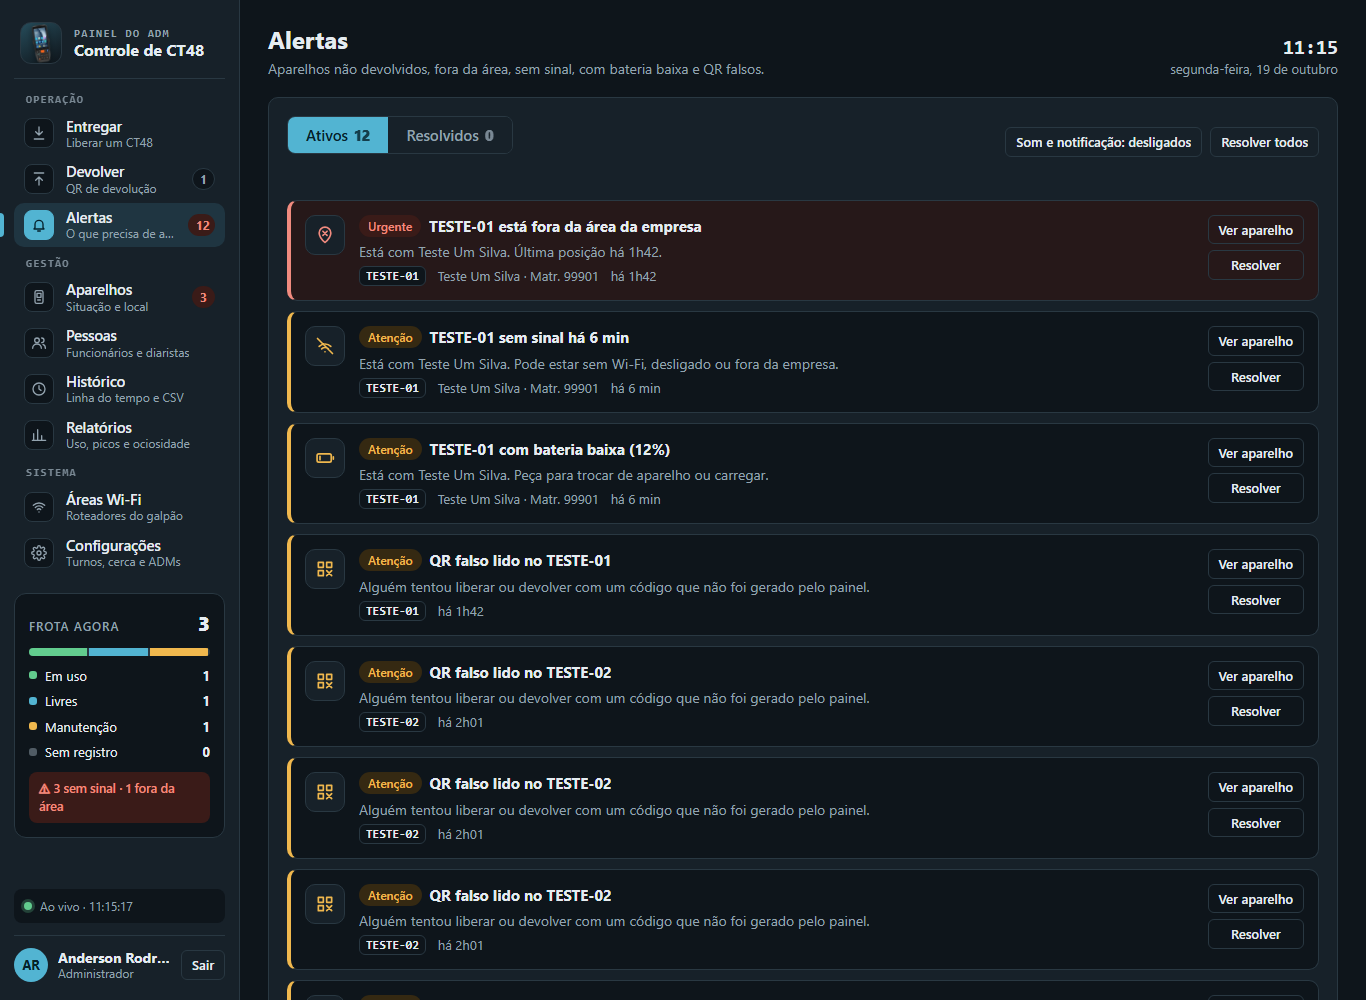
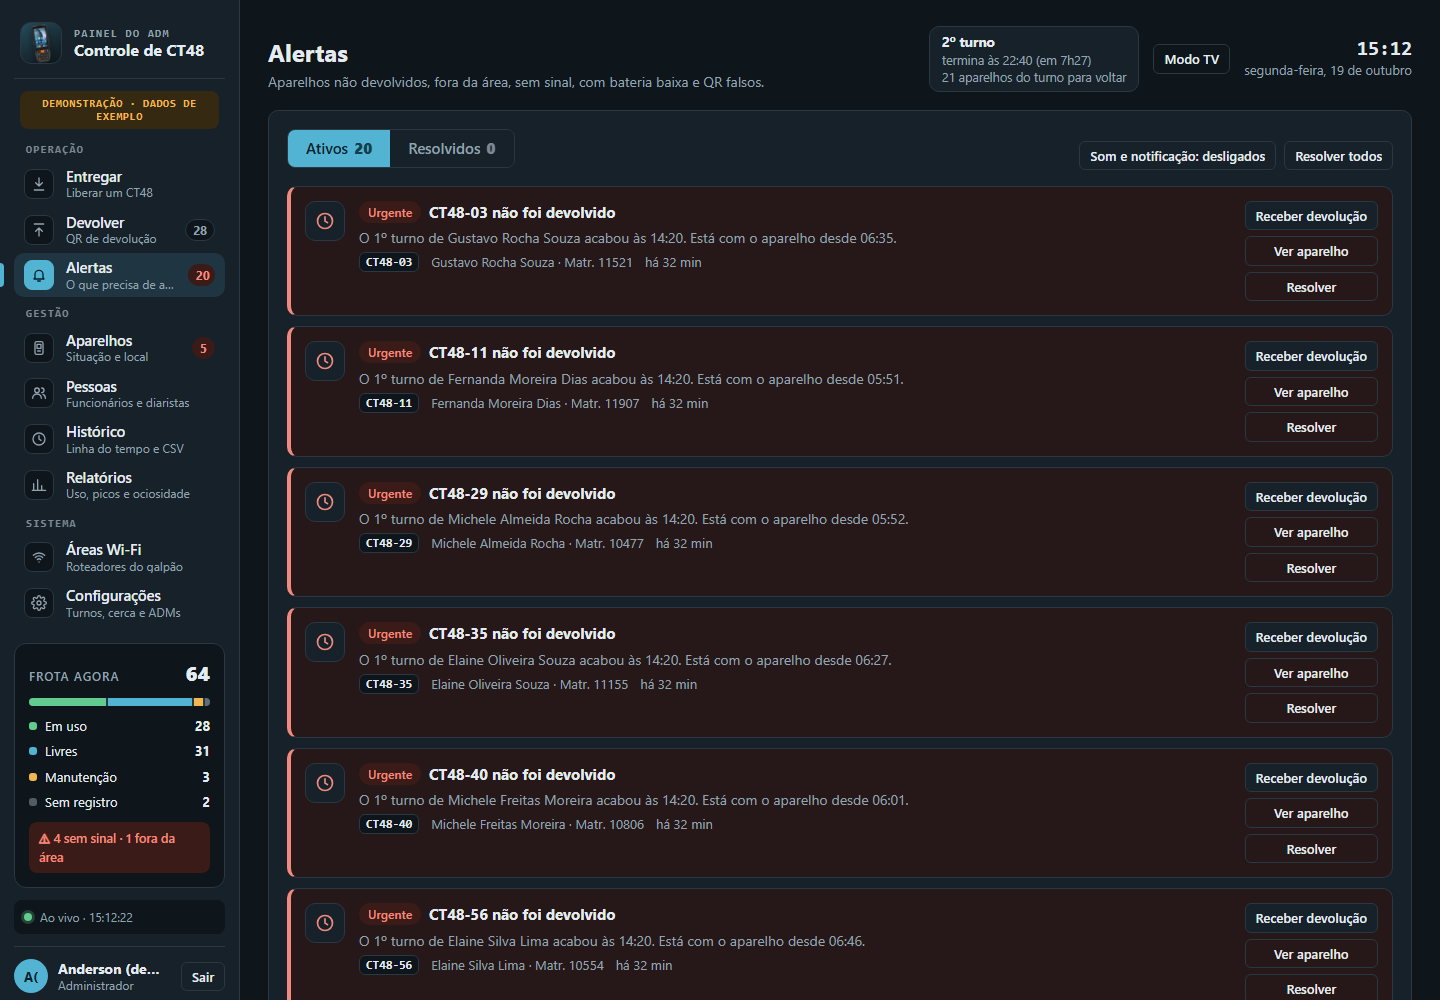
README e telas novas: Modo TV, fim de turno, relatórios e demonstração com 64 CT48
Imagens tiradas da demonstração (dados fictícios). README com a tabela de funcionalidades atualizada, galeria com 6 telas e o atalho npm run demo para ver funcionando.

diff --git a/README.md b/README.md
@@ -19,7 +19,8 @@ e o painel mostra em tempo real onde está cada aparelho, com quem e o que preci
 </div>
 
 <p align="center">
-  <img src="docs/imagens/painel-aparelhos.png" alt="Painel do ADM, seção Aparelhos: cartões com o mini CT48 mostrando o estado de cada aparelho" width="900">
+  <img src="docs/imagens/modo-tv.png" alt="Modo TV do painel: indicadores grandes, áreas do galpão com um ponto por CT48, alertas agrupados e movimento recente" width="960">
+  <br><sub><b>Modo TV</b> para um monitor na sala do ADM, aqui com a demonstração de 64 CT48 (dados fictícios)</sub>
 </p>
 
 ---
@@ -29,25 +30,31 @@ e o painel mostra em tempo real onde está cada aparelho, com quem e o que preci
 | | |
 |---|---|
 | 🔐 **Bloqueio por padrão** | O CT48 fica em modo quiosque. Só abre os apps da empresa depois de ler o QR de liberação. |
-| 📲 **Entrega com QR** | O ADM busca o funcionário (matrícula) ou o diarista (CPF) e gera um QR que vale 2 minutos e libera **um** aparelho. |
-| ↩ **Devolução com QR** | No fim do turno, um único QR de devolução bloqueia todos os aparelhos que o lerem. |
-| 🚨 **Alertas** | Aparelho não devolvido depois do turno, fora da área da empresa, sem sinal, com bateria baixa, perdido ou QR falso. Com som e notificação no navegador. |
-| 📍 **Localização** | Área pelo roteador Wi-Fi do galpão (mais preciso lá dentro) e GPS com cerca virtual. |
-| 👥 **Pessoas** | Quem está com aparelho, histórico de cada um, bloqueio de quem perdeu ou quebrou e importação da base do RH em CSV. |
-| 📊 **Relatórios** | Entregas, horas de uso, pico de aparelhos ao mesmo tempo, uso por hora, por aparelho, por setor e por pessoa. Exporta CSV e PDF. |
+| 📲 **Entrega com QR** | O ADM busca o funcionário (matrícula) ou o diarista (CPF) e gera um QR que vale 2 minutos e libera **um** aparelho. O painel **sugere qual CT48 entregar** (o livre com mais bateria). |
+| ↩ **Devolução com QR** | Um único QR de devolução bloqueia todos os aparelhos que o lerem. O **fim de turno guiado** mostra quem do turno ainda está com aparelho. |
+| 🚨 **Alertas** | Não devolvido depois do turno, fora da área, sem sinal, bateria baixa, perdido ou QR falso. Com som e notificação no navegador. |
+| 📺 **Modo TV** | Tela cheia para monitor: indicadores grandes, áreas com um ponto por CT48, alertas agrupados e movimento recente, ao vivo. |
+| 📍 **Localização** | Área pelo roteador Wi-Fi do galpão (mais preciso lá dentro) e GPS com cerca virtual. Quadro com quantos CT48 há em cada área. |
+| 🗂 **Feito para frota grande** | Aparelhos em lista ou cartões, ordenação, filtros e páginas (1, 2, 3…) em todas as listas longas. |
+| 👥 **Pessoas** | Quem está com aparelho, histórico, atrasos de cada um, bloqueio de quem perdeu ou quebrou e importação da base do RH em CSV. |
+| 📊 **Relatórios** | Entregas, horas de uso, pico, uso por hora, comparação dos turnos, mapa de calor, aparelhos com mais problemas e quem mais atrasa. Exporta CSV e PDF. |
 | 🛠 **Manutenção** | Marca o CT48 como em manutenção, quebrado ou perdido: ele não pode ser liberado até voltar. |
-| 🧪 **Simulador** | Um CT48 de mentira no navegador para testar tudo sem o aparelho. |
+| 🧪 **Demonstração e simulador** | `npm run demo` abre o painel com 64 CT48 e 30 dias de uso fictícios; o simulador faz o papel do aparelho no navegador. |
 
 ## 🖥 Telas
 
 <table>
   <tr>
-    <td width="50%"><img src="docs/imagens/painel-entregar.png" alt="Seção Entregar do painel"><p align="center"><b>Entregar</b>: busca a pessoa e gera o QR de liberação</p></td>
-    <td width="50%"><img src="docs/imagens/painel-alertas.png" alt="Seção Alertas do painel"><p align="center"><b>Alertas</b>: o que precisa de atenção agora</p></td>
+    <td width="50%"><img src="docs/imagens/painel-aparelhos.png" alt="Seção Aparelhos em lista, com o quadro por área"><p align="center"><b>Aparelhos</b>: lista com situação, bateria e sinal, e o quadro por área</p></td>
+    <td width="50%"><img src="docs/imagens/painel-entregar.png" alt="Seção Entregar do painel"><p align="center"><b>Entregar</b>: busca a pessoa, gera o QR e acompanha quem está em uso</p></td>
   </tr>
   <tr>
-    <td width="50%"><img src="docs/imagens/simulador.png" alt="Simulador de CT48 no navegador"><p align="center"><b>Simulador</b>: bancada de testes sem o aparelho</p></td>
-    <td width="50%"><img src="docs/imagens/login.png" alt="Tela de login do painel"><p align="center"><b>Login</b> do painel do ADM</p></td>
+    <td width="50%"><img src="docs/imagens/painel-devolver.png" alt="Seção Devolver com o fim de turno guiado"><p align="center"><b>Devolver</b>: QR de devolução e fim de turno guiado</p></td>
+    <td width="50%"><img src="docs/imagens/painel-alertas.png" alt="Seção Alertas do painel"><p align="center"><b>Alertas</b>: o que precisa de atenção, do mais urgente ao aviso</p></td>
+  </tr>
+  <tr>
+    <td width="50%"><img src="docs/imagens/painel-relatorios.png" alt="Relatórios com gráficos, comparação dos turnos e mapa de calor"><p align="center"><b>Relatórios</b>: uso, picos, turnos, mapa de calor e atrasos</p></td>
+    <td width="50%"><img src="docs/imagens/simulador.png" alt="Simulador de CT48 no navegador"><p align="center"><b>Simulador</b>: bancada de testes sem o aparelho</p><img src="docs/imagens/login.png" alt="Tela de login do painel"><p align="center"><b>Login</b> do painel do ADM</p></td>
   </tr>
 </table>
 
@@ -89,6 +96,16 @@ sequenceDiagram
 - **Painel:** HTML, CSS e JavaScript puros, sem framework e sem nada carregado de fora (política de segurança de conteúdo restrita). Tema claro e escuro.
 
 ## 🚀 Como rodar
+
+### Ver funcionando em 1 minuto
+
+```sh
+cd servidor
+npm install
+npm run demo
+```
+
+Abra `http://localhost:3200` e entre com `demo` / `demo1234`: são 64 CT48, ~180 funcionários e 30 dias de uso, tudo fictício, num banco separado. O Modo TV fica em `http://localhost:3200/#tv`.
 
 ### Servidor e painel
 
